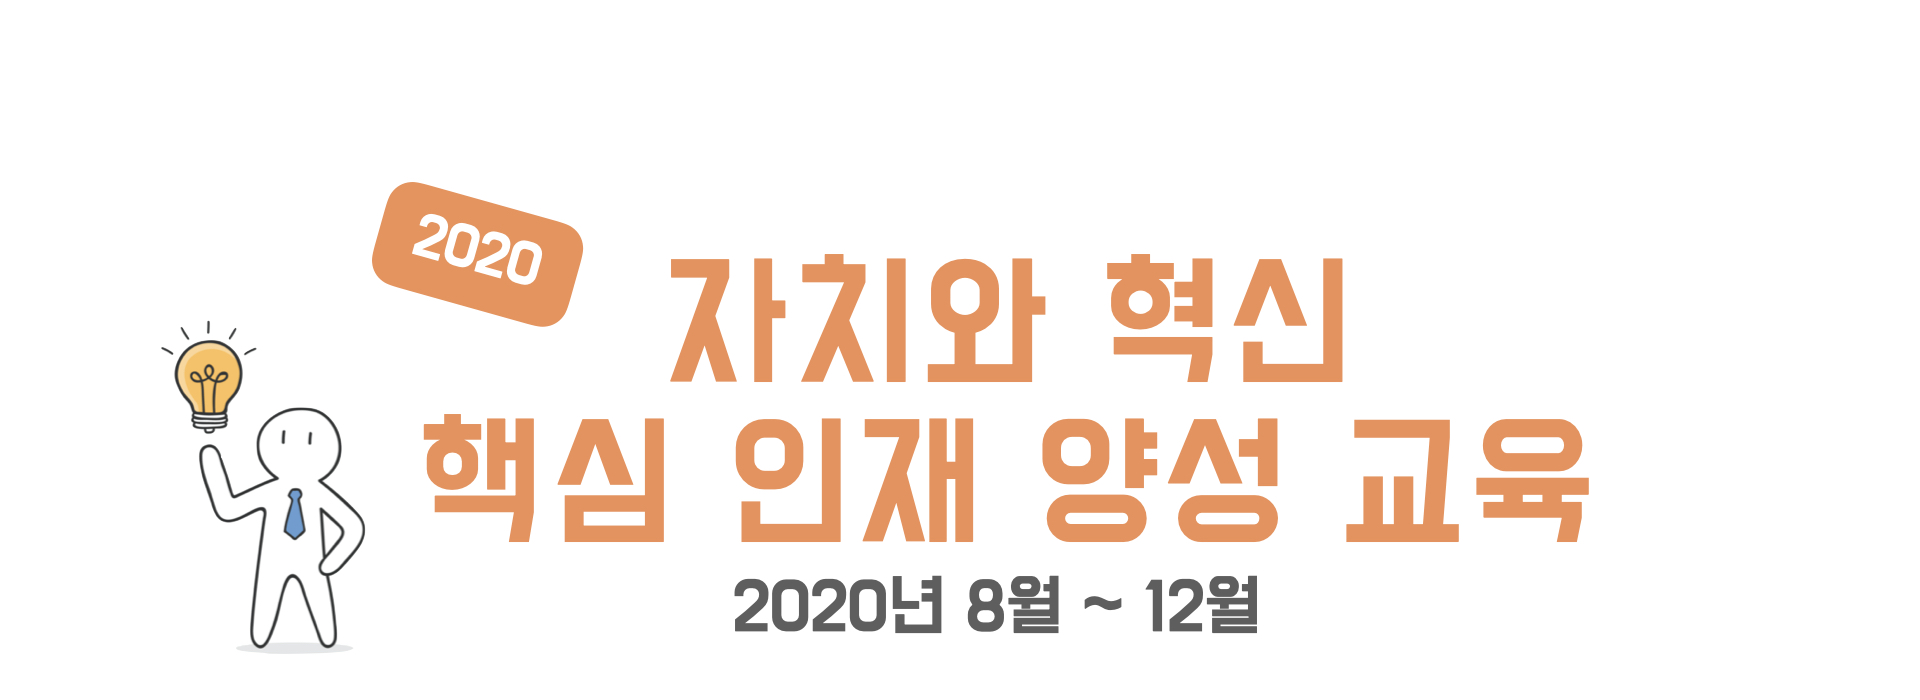
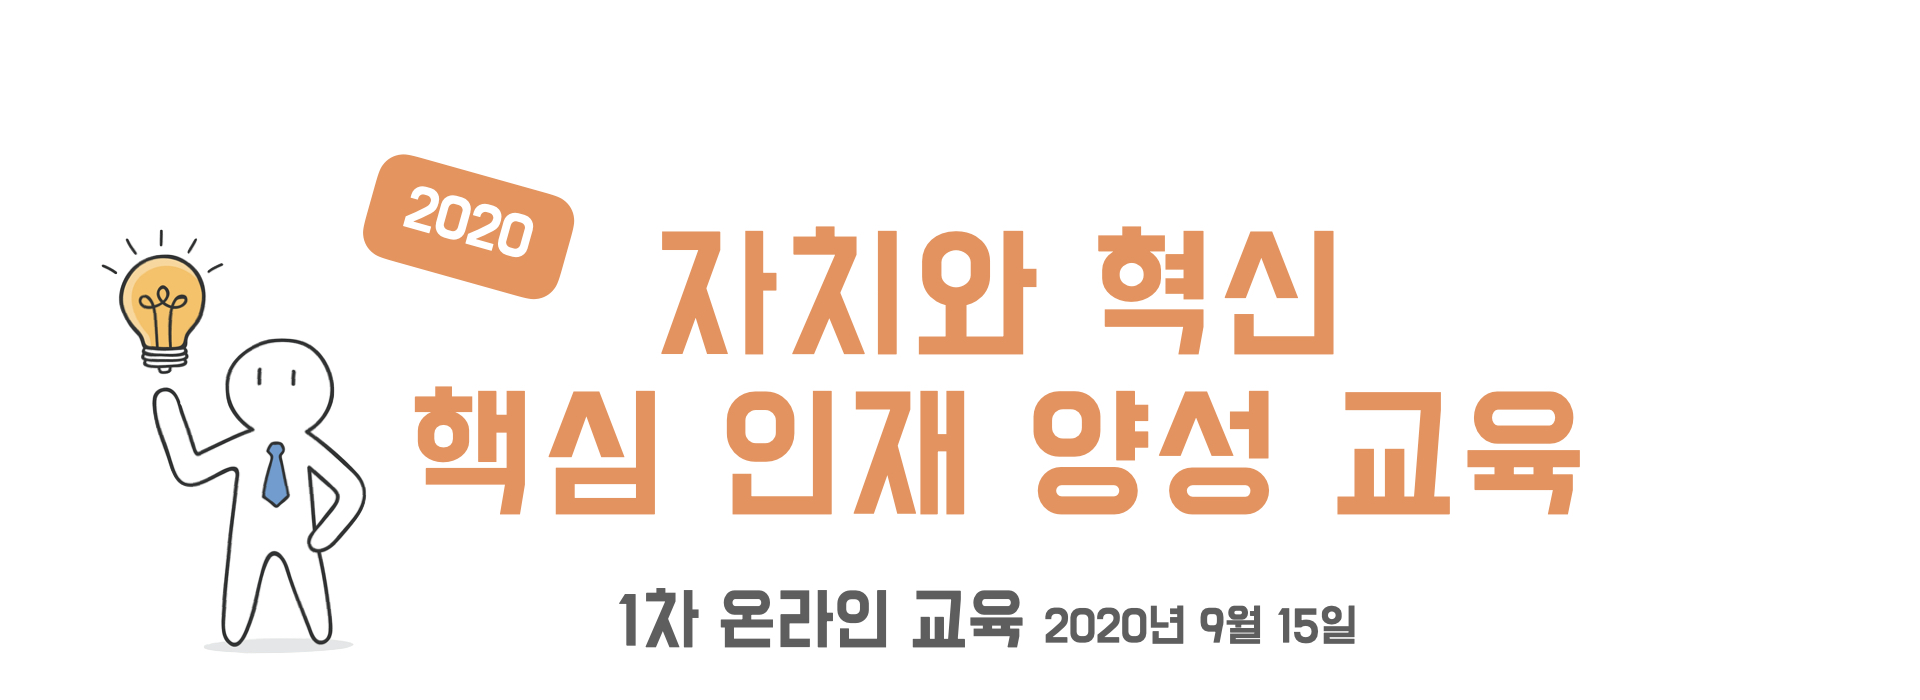
Add files via upload

diff --git a/index.html b/index.html
@@ -68,14 +68,11 @@
      <div class="item">
       <a class="btn btn-primary btn-xl js-scroll-trigger" href="https://drive.google.com/file/d/1dB82wEJbh-4mtjxZi-Ksoxkas5XkMuzG/view?usp=sharing" target="_blank">줌 사용설명서</a>
       <a class="btn btn-primary btn-xl js-scroll-trigger" href="https://drive.google.com/file/d/1eI8LNSv84teyNLUxNyI4YFLNl20YzK2u/view?usp=sharing" target="_blank">1차 교육 시간표</a>
-      <a class="btn btn-primary btn-xl js-scroll-trigger" href="https://drive.google.com/file/d/1dT-mXtjW5ySzwS-JrcopJTXY1n_0GJ3K/view?usp=sharing" target="_blank">전체 교육내용</a>
+      <a class="btn btn-primary btn-xl js-scroll-trigger" href="https://drive.google.com/file/d/1dT-mXtjW5ySzwS-JrcopJTXY1n_0GJ3K/view?usp=sharing" target="_blank">교육 전체내용</a>
        <a class="btn btn-primary btn-xl js-scroll-trigger" href="https://open.kakao.com/o/guS087qc" target="_blank">카톡 문의 클릭</a>
       </div> 
       <div class="item">
-      <a class="btn btn-primary1 btn-xl js-scroll-trigger" href="https://docs.google.com/forms/d/e/1FAIpQLSc_9Xa2xLY-wUOZAK92vtMaHOIfVrKYs23TN6o4FX7KxuTwTQ/viewform" target="_blank">17일 수업참여조사</a>
-      </div> 
-      <div class="item">
-      <a class="btn btn-primary1 btn-xl js-scroll-trigger" href="https://zoom.us/j/93264475350" target="_blank">온라인 강의 테스트</a>
+      <a class="btn btn-primary1 btn-xl js-scroll-trigger" href="https://zoom.us/j/93264475350" target="_blank">1차 온라인 강의 참여</a>
       </div> 
       <div class="bottom-img">
         <img src="img/bottom-img.png">
